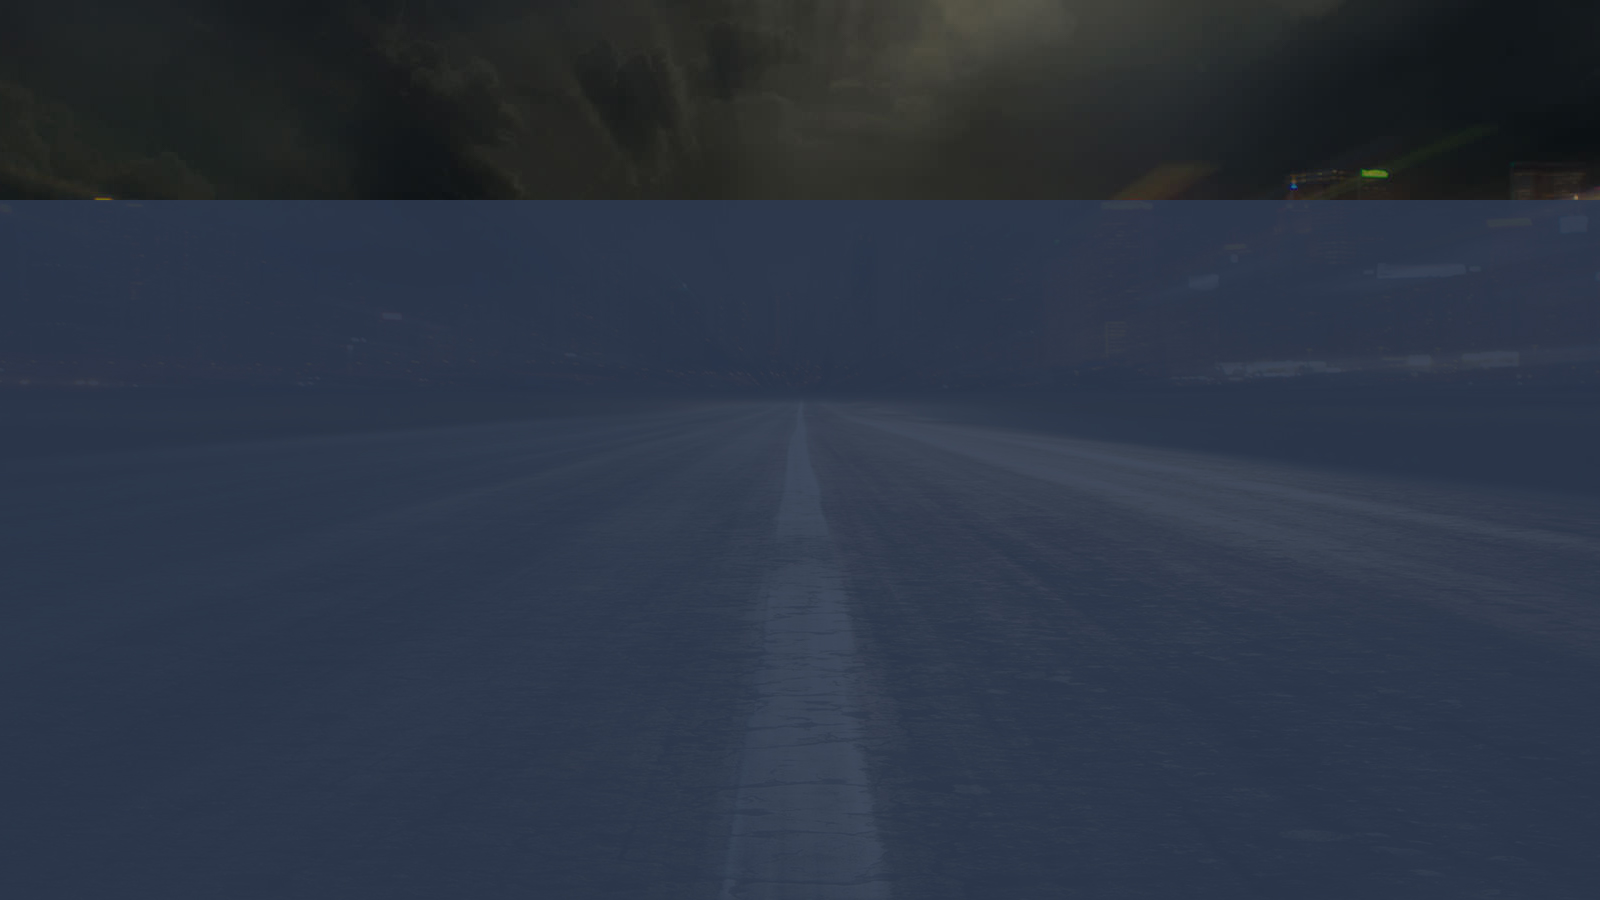
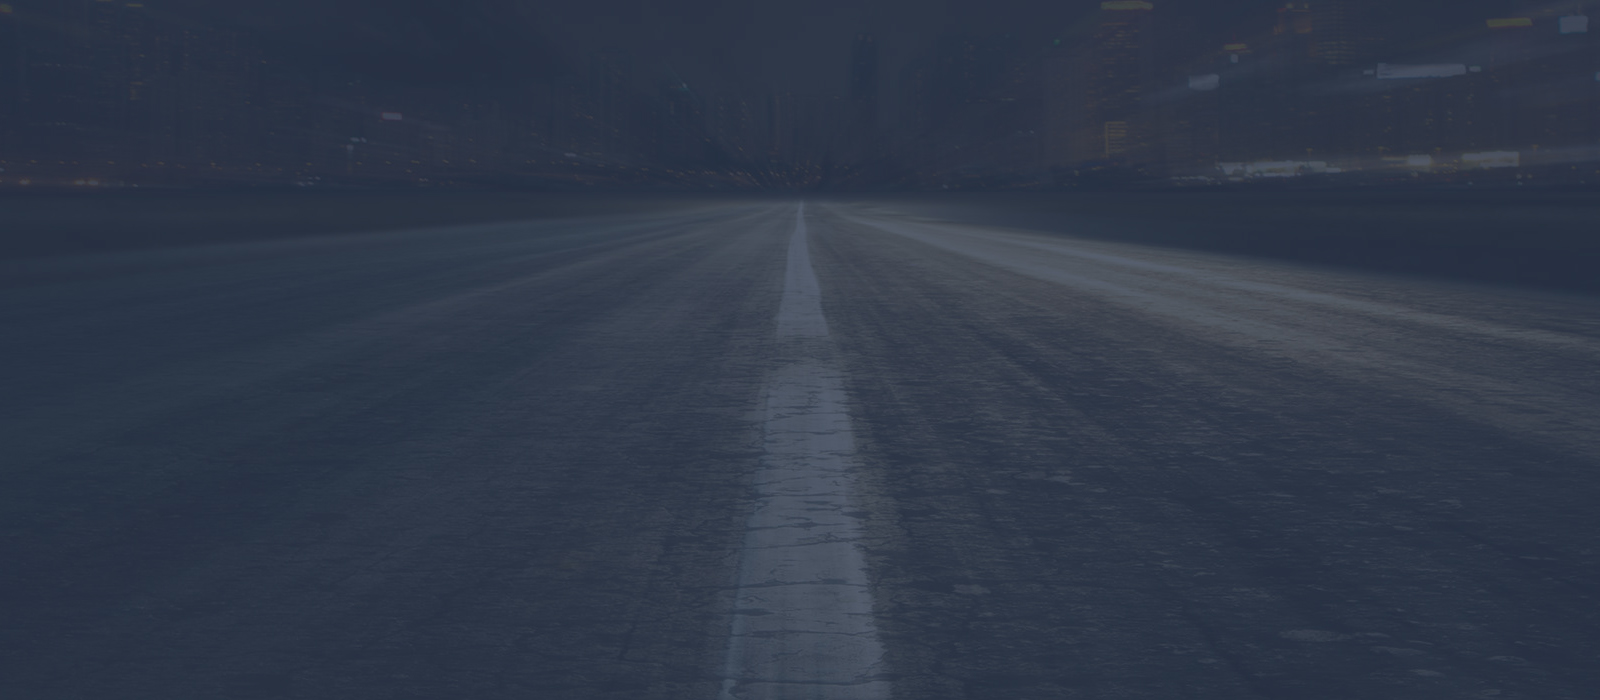
Created form

Changed region(s): [[0.0, 0.0, 1.0, 0.27], [0.4375, 0.27, 1.0, 0.54], [0.5, 0.54, 0.5312, 0.66]]

diff --git a/styles/style.css b/styles/style.css
@@ -33,7 +33,7 @@ header {
 }
 
 .banner {
-    background: #2d3950 url("../img/bg.jpg") no-repeat top center / cover;;
+    background: #2d3950 url("../img/bg.jpg") no-repeat top center / cover;
 }
 
 .inner-content {
@@ -196,6 +196,95 @@ header {
 .image-block > img {
     width: 250px;
 }
+
+.stayWithUs {
+    margin-top: 105px;
+    background: url('../img/bg2.jpg') no-repeat top center / cover;
+}
+
+.stayWithUs .title {
+    font-size: 256%;
+    color: #fff;
+    text-align: center;
+    margin: 0 auto;
+    padding-top: 73px;
+    padding-bottom: 25px;
+}
+
+.stayWithUs .text {
+    font-size: 100%;
+    color: #999;
+    text-align: center;
+    margin: 0 auto;
+    padding-bottom: 50px;
+}
+
+form {
+    width: 555px;
+    margin: 0 auto;
+}
+
+.form-input {
+    width: 100%;
+    outline: none;
+    background-color: transparent;
+    border: 1px solid #999;
+    border-radius: 4px;
+    margin-bottom: 22px;
+    height: 62px;
+    color: #fff;   
+}
+
+.form-input:focus {
+    border: 1px solid #fff;
+}
+
+.message {
+    height: 160px;
+    width: 100%;
+}
+
+.message::placeholder {
+    padding-top: 25px;
+}
+
+.form-input::placeholder {
+    padding-left: 20px;
+    font-size: 100%;
+}
+
+.bottom {
+    width: 100%;
+    height: 50px;
+    display: flex;
+    justify-content: space-between;
+    padding-bottom: 110px;
+}
+
+.subscribe {
+    margin: auto 0;
+}
+
+.subscribe label{
+    padding-left: 15px;
+    color: #fff;
+}
+
+.subscribe input {
+    margin: 0;
+}
+
+.send {
+    width: 142px;
+    height: 50px;
+    background-color: #15a4fa;
+    outline: none;
+    border: 0px;
+    color: #fff;
+    border-radius: 6px;
+    font-size: 110%
+}
+
 
 @media screen and (max-width: 1024px) {
     .inner-content {

diff --git a/index.html b/index.html
@@ -94,17 +94,21 @@
     </main>
     <main class="stayWithUs">
         <div class="content">
-            <div class="title">
-                <span>Stay with us</span>
-                <p>We ensure quailty & support</p>
+            <div>
+                <p class="title">Stay with us</p>
+                <p class="text">We ensure quailty & support</p>
             </div>
             <form action="">
-                <input type="text">
-                <input type="text">
-                <textarea name="" id="" cols="30" rows="10"></textarea>
-                <input type="checkbox" id="subscribe">
-                <label for="subscribe">Subscribe Newsletter</label>
-                <input type="submit" value="Send">
+                <input type="text" class="form-input" placeholder="Full Name">
+                <input type="text" class="form-input" placeholder="Email Adress">
+                <textarea type="text" class="form-input message" placeholder="Message"></textarea>
+                <div class="bottom">
+                    <div class="subscribe">
+                        <input type="checkbox" id="sub">
+                        <label for="sub">Subscribe Newsletter</label>
+                    </div>
+                    <input class="send" type="submit" value="Send">
+                </div>
             </form>
         </div>
     </main>
